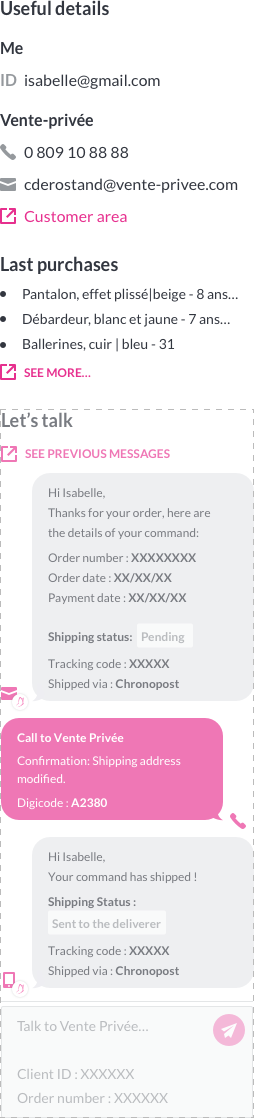
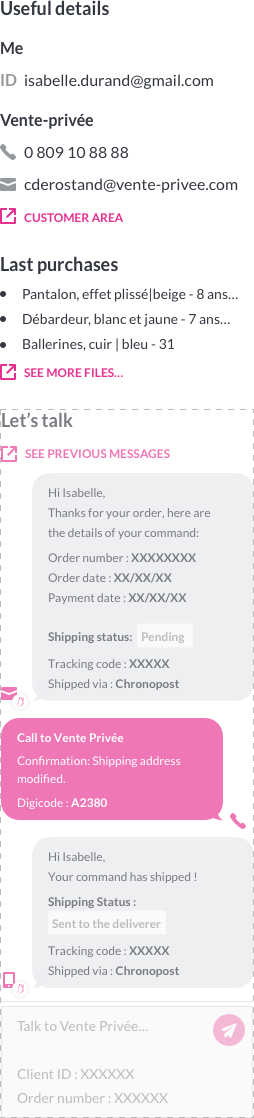
feat: Dirty upgrade for AugmentedModal
- scrollable content
- 2x image
- clickable areas

diff --git a/src/components/AugmentedModal.jsx b/src/components/AugmentedModal.jsx
@@ -1,8 +1,9 @@
 import React, { Component } from 'react'
-import { Modal, Panel, IntentIframe } from 'cozy-ui/react'
+import { Modal, ModalDescription, Panel, IntentIframe } from 'cozy-ui/react'
 import ventePrivee from 'assets/vente-privee.png'
 import styles from './AugmentedModal.styl'
 import ventePriveeInfo from 'assets/venteprivee-info.png'
+import ventePriveeInfo2x from 'assets/venteprivee-info@2x.png'
 
 const { ModalBrandedHeader } = Modal
 
@@ -19,7 +20,21 @@ class Content extends Component {
           />
         </Panel.Main>
         <Panel.Side>
-          <img src={ventePriveeInfo} />
+          <div className={styles.FakeInfos}>
+            <a
+              href="https://secure.fr.vente-privee.com/authentication/portal/FR"
+              className={styles.FakeInfosLinkVendor}
+            />
+            <a
+              href="https://isabelledurand-drive.mycozy.cloud/#/folder/7aadd73f48591c0df263640687052a2d"
+              className={styles.FakeInfosLinkDrive}
+            />
+            <img
+              src={ventePriveeInfo}
+              srcSet={`${ventePriveeInfo2x} 2x`}
+              alt=""
+            />
+          </div>
         </Panel.Side>
       </Panel.Group>
     )
@@ -38,7 +53,9 @@ const AugmentedModal = ({ onClose, fileId }) => (
       logo={ventePrivee}
       style={{ marginBottom: 0 }}
     />
-    <Content fileId={fileId} />
+    <ModalDescription className={styles.AugmentedModalDescription}>
+      <Content fileId={fileId} />
+    </ModalDescription>
   </Modal>
 )
 
